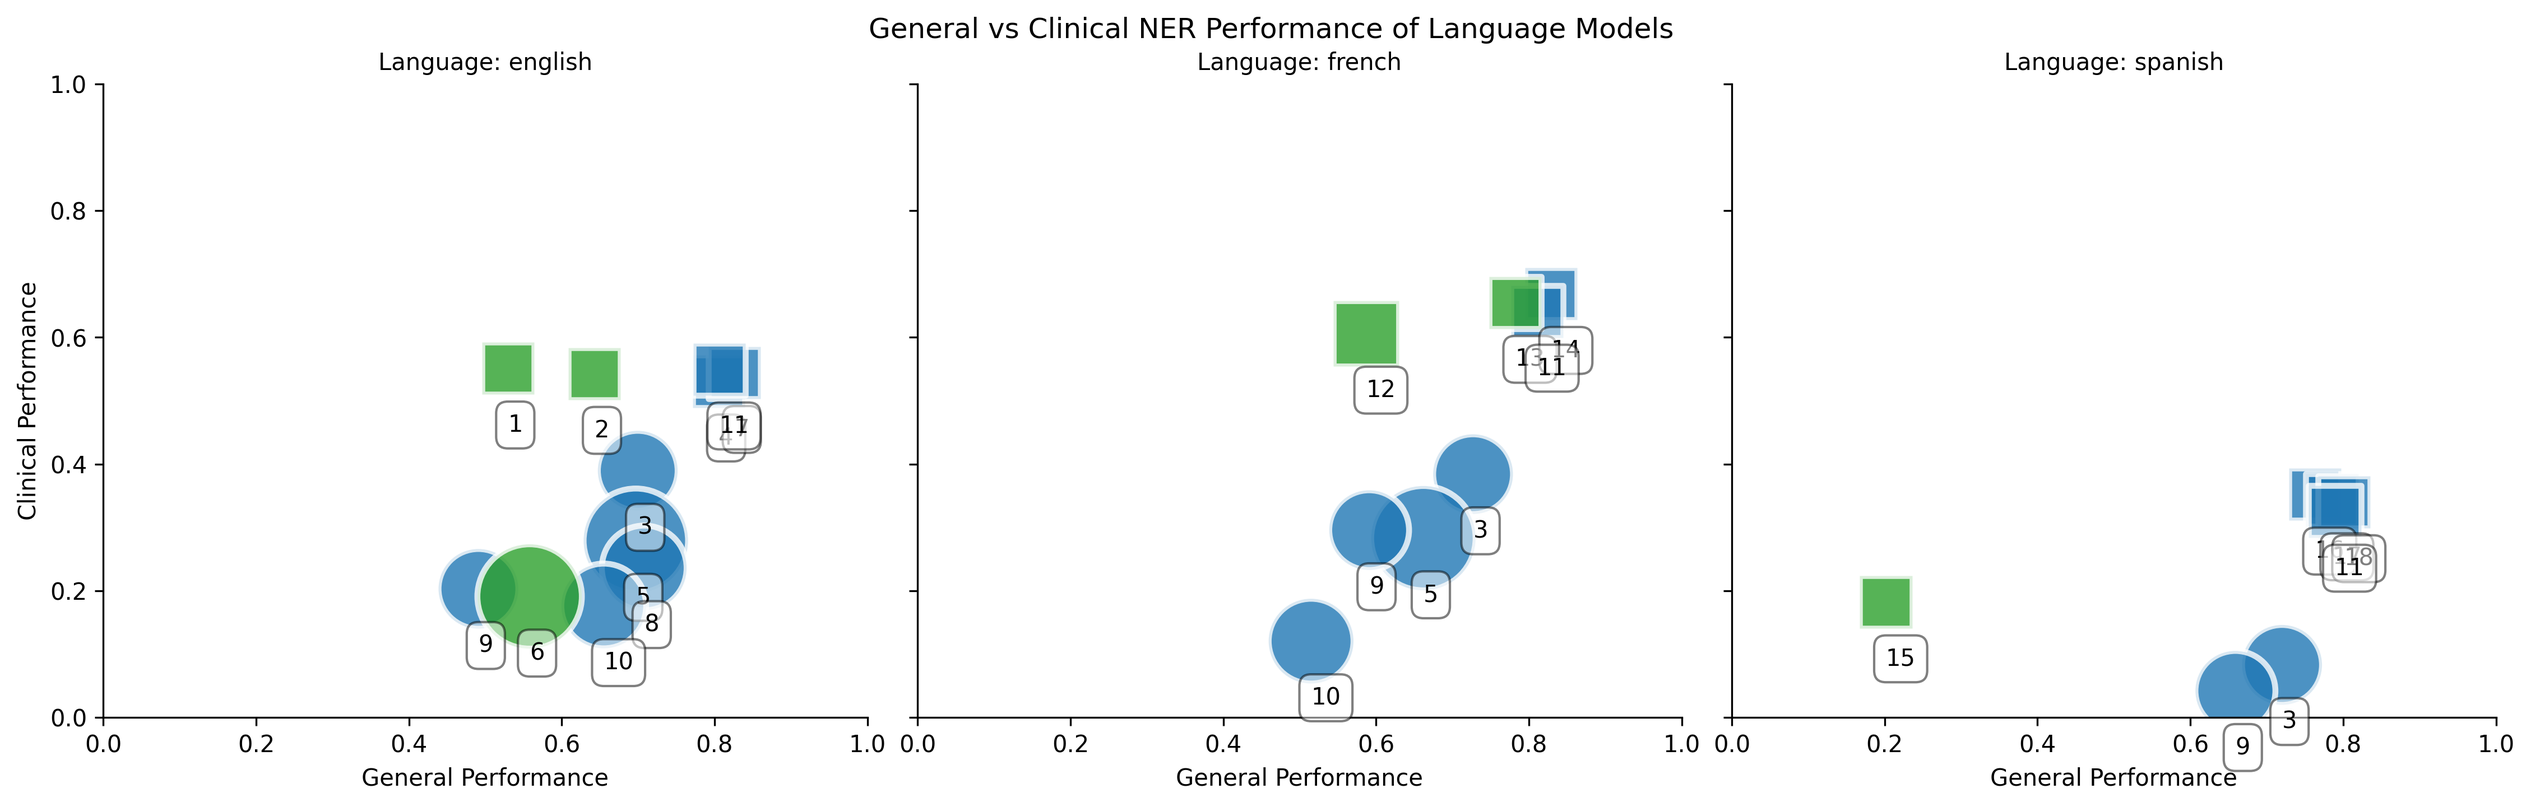
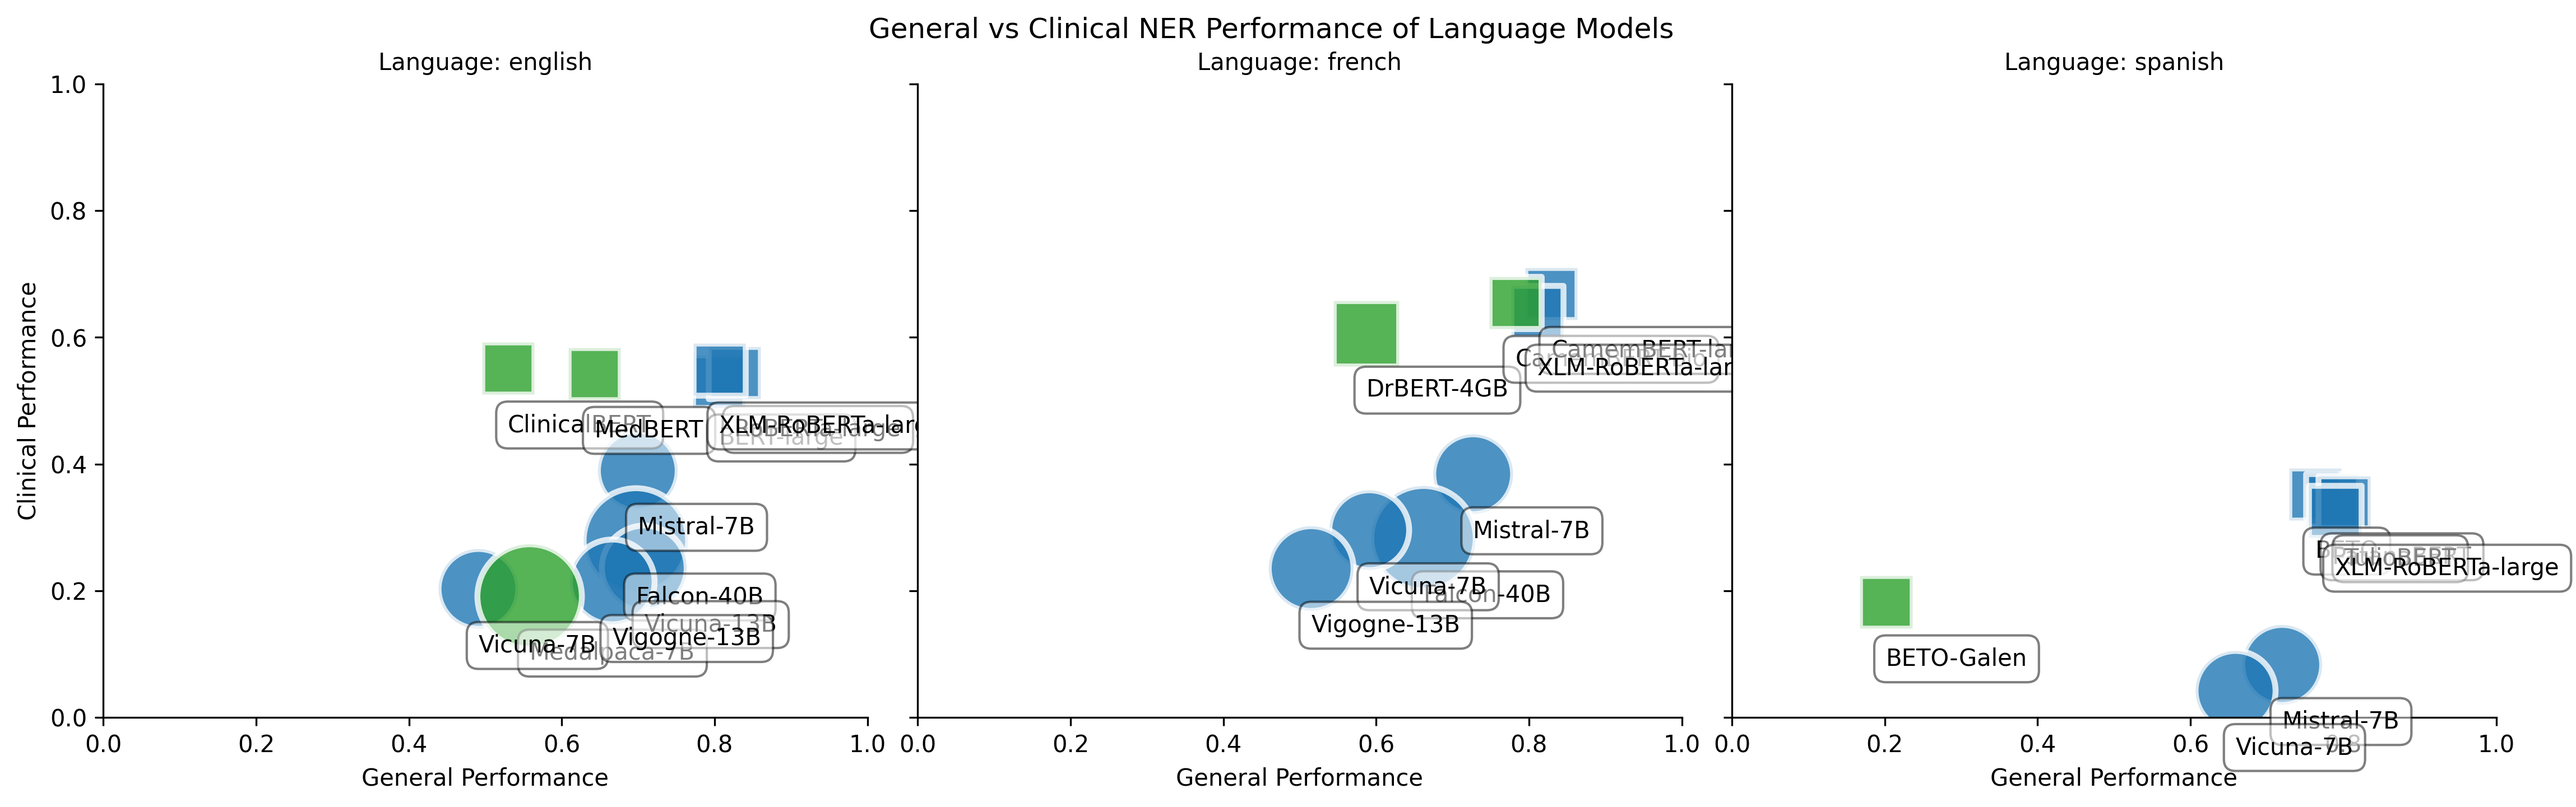
add gpt models

diff --git a/result_tabs_and_plots/results_table.tex b/result_tabs_and_plots/results_table.tex
@@ -4,11 +4,11 @@
 & Model & WikiNER & CoNLL2003 & E3C & n2c2 & i2b2 & WikiNER & QFP & E3C & EMEA & MEDLINE & WikiNER & CoNLL2002 & E3C & CWL \\
 \midrule
 \multirow{6}{*}{\rotatebox[origin=c]{90}{Causal}} & Mistral-7B & 0.754 & 0.645 & 0.488 & 0.291 & - & 0.727 & - & 0.59 & 0.229 & 0.333 & 0.72 & - & 0.083 & - \\
- & Falcon-40B & 0.686 & 0.708 & - & 0.279 & - & 0.662 & - & - & - & 0.283 & 0.72 & - & - & - \\
+ & Falcon-40B & 0.686 & 0.708 & 0.28 & 0.279 & - & 0.662 & - & - & - & 0.283 & 0.72 & - & - & - \\
  & Vicuna-13B & - & 0.708 & - & 0.236 & - & - & - & - & - & 0.326 & - & - & - & - \\
  & Vicuna-7B & 0.594 & 0.388 & 0.259 & 0.147 & - & 0.591 & - & 0.439 & 0.152 & 0.296 & 0.659 & - & 0.042 & - \\
  & Medalpaca-7B & - & 0.558 & - & 0.191 & - & - & - & - & 0.161 & 0.224 & - & - & - & - \\
- & Vigogne-13B & - & 0.655 & - & 0.176 & - & 0.515 & - & - & 0.099 & 0.142 & - & - & - & - \\
+ & Vigogne-13B & - & 0.666 & 0.252 & 0.176 & - & 0.515 & - & 0.464 & 0.099 & 0.142 & - & - & - & - \\
 \midrule
 \multirow{12}{*}{\rotatebox[origin=c]{90}{Masked}} & XLM-RoBERTa-large & 0.786 & 0.826 & 0.637 & 0.462 & - & 0.811 & - & 0.762 & 0.629 & 0.531 & 0.797 & 0.781 & 0.325 & - \\
  & BERT-large & 0.776 & 0.835 & 0.626 & 0.435 & - & - & - & - & - & - & - & - & - & - \\

diff --git a/read_results.py b/read_results.py
@@ -194,6 +194,24 @@ model_hierarchy = {
                 "size": 13*B,
                 "languages" : "french",
             },
+            {
+                "name": "gpt-j-6B",
+                "clean_name": "GPT-J-6B",
+                "size": 6*B,
+                "languages" : "all",
+            },
+            {
+                "name": "gpt4all-j",
+                "clean_name": "GPT4All-J",
+                "size": 6*B,
+                "languages" : "all",
+            },
+            {
+                "name": "gpt-neox-20b",
+                "clean_name": "GPT-NeoX-20B",
+                "size": 20*B,
+                "languages" : "all",
+            }
         ],
         "Clinical":[
             {

diff --git a/plot_tools.py b/plot_tools.py
@@ -61,9 +61,11 @@ def plot_data(df, output_folder, model_domains, model_types, model_sizes, model_
             })
 
     scatter_df = pd.DataFrame(scatter_data)
-    model_numbers = {}
+    # model_numbers = {}
+    # for i, model_name in enumerate(scatter_df.model_name.unique()):
+    #     model_numbers[model_name] = i+1
 
-    scatter_df['model_number'] = scatter_df['model_name'].apply(lambda x: model_numbers[x])
+    scatter_df['model_number'] = scatter_df['model_name']
 
 
     grid = sns.FacetGrid(scatter_df, col="model_language", hue="model_domain", hue_order=["General","", "Clinical"], palette=['#1f77b4', '#ff7f0e', '#2ca02c'], col_wrap=3, height=4, aspect=1.5)

diff --git a/generate_labia_slurms.py b/generate_labia_slurms.py
@@ -103,6 +103,7 @@ models = {
     "bofenghuang/vigogne-2-13b-instruct": "vigogne13",
     "EleutherAI/gpt-j-6B": "gptj6",
     "nomic-ai/gpt4all-j": "gpt4allj",
+    "EleutherAI/gpt-neox-20b" : "gptneox20",
 }
 datasets = {
     #local datasets
